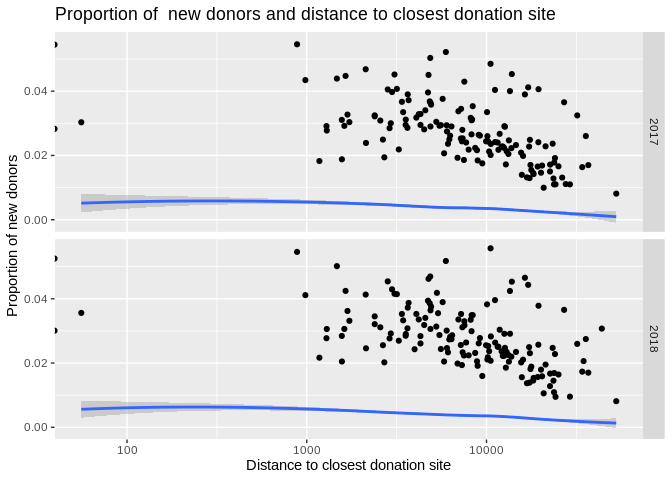
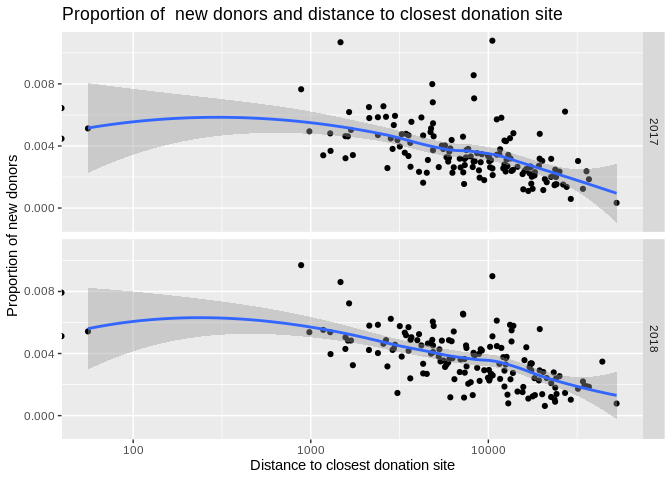
Found error in code and modified contents

diff --git a/src/visualising_model_data.md b/src/visualising_model_data.md
@@ -7,14 +7,14 @@ Ilpo Arminen
 library(tidyverse)
 ```
 
-    ## ── Attaching packages ───────────────────────────────────────────────────── tidyverse 1.2.1 ──
+    ## ── Attaching packages ─────────────────────────────────────── tidyverse 1.2.1 ──
 
     ## ✔ ggplot2 3.2.0          ✔ purrr   0.3.2     
     ## ✔ tibble  2.1.3          ✔ dplyr   0.8.2     
     ## ✔ tidyr   0.8.3.9000     ✔ stringr 1.4.0     
     ## ✔ readr   1.3.1          ✔ forcats 0.4.0
 
-    ## ── Conflicts ──────────────────────────────────────────────────────── tidyverse_conflicts() ──
+    ## ── Conflicts ────────────────────────────────────────── tidyverse_conflicts() ──
     ## ✖ dplyr::filter() masks stats::filter()
     ## ✖ dplyr::lag()    masks stats::lag()
 
@@ -77,7 +77,9 @@ units(model_data$averageincome) <- "Euro"
 #kable(model_data)
 ```
 
-# Distribution of eligible population variable
+# Distributions of variables
+
+\#\#Distribution of eligible population variable
 
 ``` r
 ggplot(data=model_data, mapping = aes(x= eligible_population))+
@@ -133,7 +135,9 @@ geom_histogram()
 
 ![](visualising_model_data_files/figure-gfm/unnamed-chunk-9-1.png)<!-- -->
 
-\#Proportion of donors and median income
+# Median income
+
+\#\#Median income and proportion of donors
 
 ``` r
 ggplot(data=model_data, mapping = aes(x= medianincome, y= prop_donors))+
@@ -150,7 +154,7 @@ scale_x_log10() +
 ``` r
 #facet_grid(Year~.)
 
-#There seems to be quite a number of areas with high proportion of donors and lower than 20k median income. After checking this, it seems that areas are all from Lahti. Also need to pay attention that im not visualising the years separately, so  there are same data points with different year. it seems that there could be  (mild)  positive correlation between median income and proportion of donors, but only to some degree so that richest ares do not have highest prop donors and there are areas with high prop of donors and less than 20k median income, so there might be even negative linear correlation.  I would guess that Helsinki would fit to linear model better, than the whole dataset.
+#There seems to be quite a number of areas with high proportion of donors and lower than 20k median income. After checking this, it seems that areas are all from Lahti. Also need to pay attention that im not visualising the years separately, so  there are same data points with different year. it seems that there could be  (mild)  positive correlation between median income and proportion of donors, but only to some degree so that richest ares do not have highest prop donors and there are areas with high prop of donors and less than 20k median income, so there might be even negative correlation.  I would guess that Helsinki would fit to linear model better, than the whole dataset.
 ```
 
 ## proportion of donors and median income with zip labels.
@@ -175,7 +179,7 @@ mapping = aes(label = name)) +
 # This if helpful for seeing that high proportion of donors seems to be areas near the fixed sites, atleast in Ruskeasuo, Etelä-Haaga and Lahti Asemanseutu. 
 ```
 
-## proportion of donors, median income and distance
+## Median income, distance with proportion of donors
 
 ``` r
 ggplot(data=model_data, mapping = aes(x= medianincome, y= prop_donors, color= minDist))+
@@ -201,7 +205,7 @@ facet_grid(Year~.)
 # It seems that distance to donation site does not matter as much as i thought. This could be matter of minDIst categories that hides the trend. I should maybe change the colors so i coulld see the differences easier. 
 ```
 
-### proportion of donors, median income and population
+### Median income and population with proportion of donors
 
 ``` r
 ggplot(data=model_data, mapping = aes(x= medianincome, y= prop_donors, color= eligible_population))+
@@ -334,7 +338,10 @@ facet_grid(Year~.)
 
 ![](visualising_model_data_files/figure-gfm/unnamed-chunk-17-1.png)<!-- -->
 
-# proportion of donors and average income, colored by eligible population
+# Average income
+
+\#\#proportion of donors and average income, colored by eligible
+population
 
 ``` r
 ggplot(data=model_data, mapping = aes(x= averageincome, y= prop_donors, color= eligible_population))+
@@ -438,8 +445,10 @@ facet_grid(Year~.)
 
 ![](visualising_model_data_files/figure-gfm/unnamed-chunk-22-1.png)<!-- -->
 
-\#Higher education and proportion of
-donors
+\#Higher
+education
+
+# Higher education and proportion of donors
 
 ``` r
 ggplot(data=model_data, mapping = aes(x= proportion_inhabitants_with_higher_education, y= prop_donors))+
@@ -458,10 +467,10 @@ facet_grid(Year~.)
 ![](visualising_model_data_files/figure-gfm/unnamed-chunk-23-1.png)<!-- -->
 
 ``` r
-#  Median income and tertiary education plots seems to be pretty similar. Postal codes from Lahti doesn't really fit into linear trend. Although smoothing curve tend to have a little bit more linearity curve before it drops down.  There might be some stronger correlation than with proportion of donors and median income.  
+#  Median income and tertiary education plots seems to be pretty similar. Postal codes from Lahti doesn't really fit into linear trend. Although smoothing curve tend to have a little bit more linearity curve before it drops down.  I would presume that there is  stronger correlation than with proportion of donors and median income.  
 ```
 
-## Proportion of donors, higher education and distance
+## Higher education and distance and proportion of donors
 
 ``` r
 ggplot(data=model_data, mapping = aes(x= proportion_inhabitants_with_higher_education, y= prop_donors, color= minDist))+
@@ -487,7 +496,7 @@ facet_grid(Year~.)
 # Distance doesn't seems to have a lot of effect  on this plot. There are some data points from close distances, but there isn't really any kind of trend that favors close distance donations. 
 ```
 
-### Propportion of donors, higher education and population
+### Higher education and population and proportion of donors
 
 ``` r
 ggplot(data=model_data, mapping = aes(x= proportion_inhabitants_with_higher_education, y= prop_donors, color= eligible_population)) +
@@ -567,9 +576,9 @@ facet_grid(Year~.)
 
 ![](visualising_model_data_files/figure-gfm/unnamed-chunk-28-1.png)<!-- -->
 
-``` 
-                          # Distance and proportion of donors 
-```
+# Distance
+
+\#Distance and proportion of donors
 
 ``` r
 ggplot(data=model_data, mapping = aes(x= minDist, y= prop_donors))+
@@ -594,7 +603,7 @@ facet_grid(Year~.)
 ![](visualising_model_data_files/figure-gfm/unnamed-chunk-29-1.png)<!-- -->
 
 ``` r
-# So i could not see it from the pictures where distance was only coloring feature, but plotting distance versus proportion of donors shows pretty agressive negatively linear trend.  Ith shows that when distance increases the proportion of donors decreases. 
+# So i could not see it from the pictures where distance was only coloring feature, but plotting distance versus proportion of donors shows negatively linear trend.  Ith shows that when the distance goes to 5-6 km the donations start to drop pretty heavily. 
 ```
 
 ## Distance and proportion of repeated donors
@@ -629,7 +638,7 @@ facet_grid(Year~.)
 
 ``` r
 ggplot(data=model_data, mapping = aes(x= minDist, y= prop_new_donors))+
-geom_point(mapping = aes(x= minDist, y= prop_repeat_donors)) +
+geom_point(mapping = aes(x= minDist, y= prop_new_donors)) +
 geom_smooth () + 
 scale_x_log10() +
 scale_color_viridis(discrete=FALSE,direction = -1,trans="log") + 
@@ -648,7 +657,3 @@ facet_grid(Year~.)
     ## Warning: Removed 4 rows containing non-finite values (stat_smooth).
 
 ![](visualising_model_data_files/figure-gfm/unnamed-chunk-31-1.png)<!-- -->
-
-``` r
-# New donors do not fit into the same negative trend than all the donors and repeated donors and this plot looks pretty wierd because of that. 
-```
